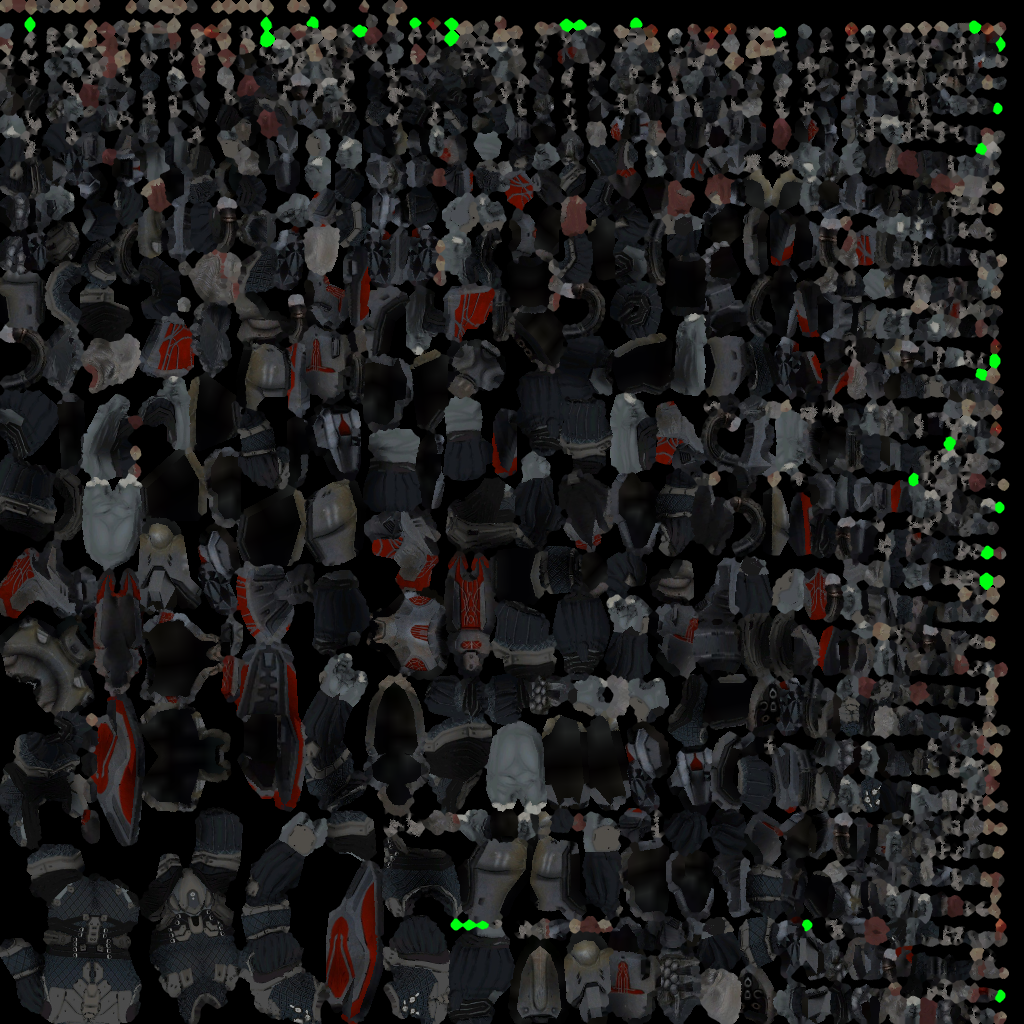
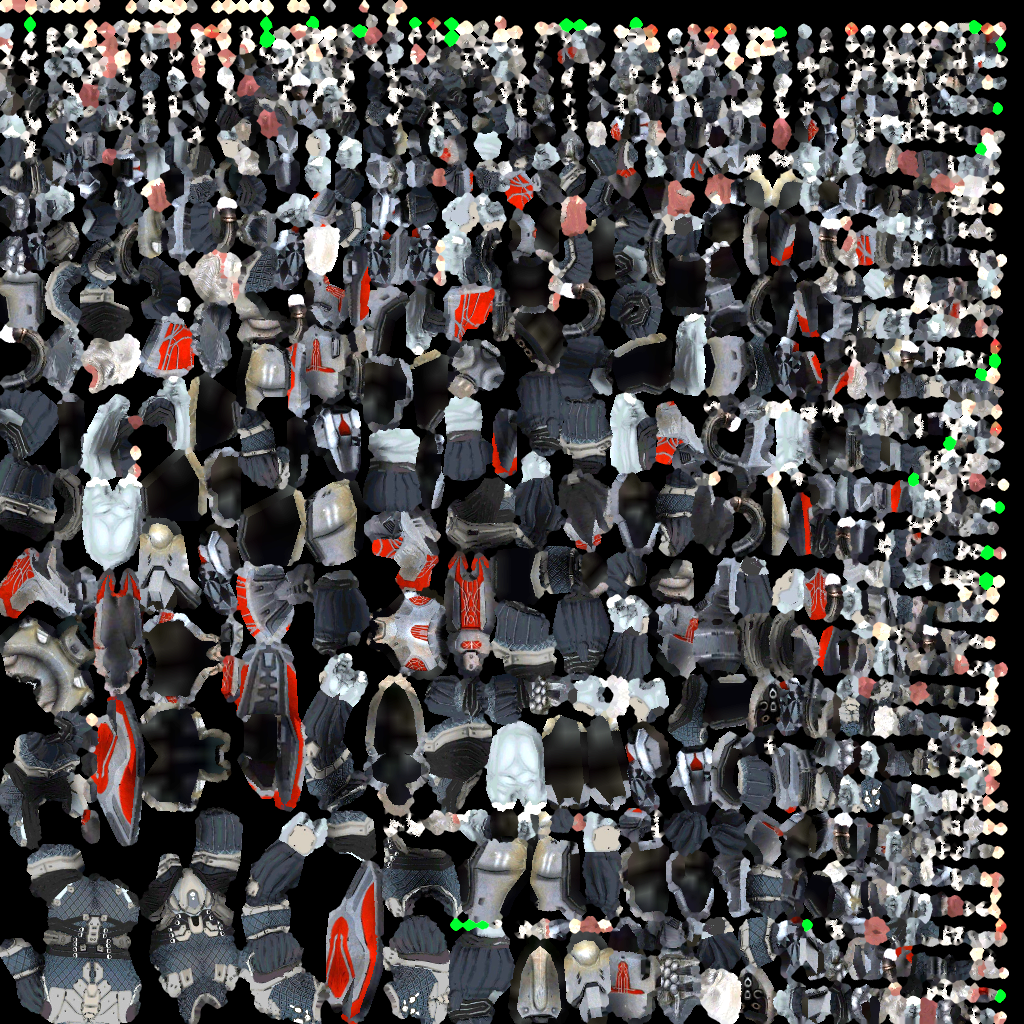
The Brute Grenadier's texture is lifted by 2.7, as it read as a black shape from the game's camera

diff --git a/Tools/Art/lift_texture.py b/Tools/Art/lift_texture.py
@@ -2,7 +2,7 @@
 # Brightens a baked body's texture, for one that reads as a black shape from the game's camera: a baked body has no tint that lifts its colours
 # as a real model's material does. Colours keep their proportions. Run it once on the file in Art/Imported/Models, as bring_in.py copies over it:
 #   blender --background --factory-startup --python Tools/Art/lift_texture.py -- <png> <factor>
-# The ODST's came with a median brightness of 0.15, and is lifted by 1.7.
+# The ODST's came with a median brightness of 0.15, and is lifted by 1.7. The Brute Grenadier's came with 0.09, and is lifted by 2.7.
 import sys
 
 import bpy
